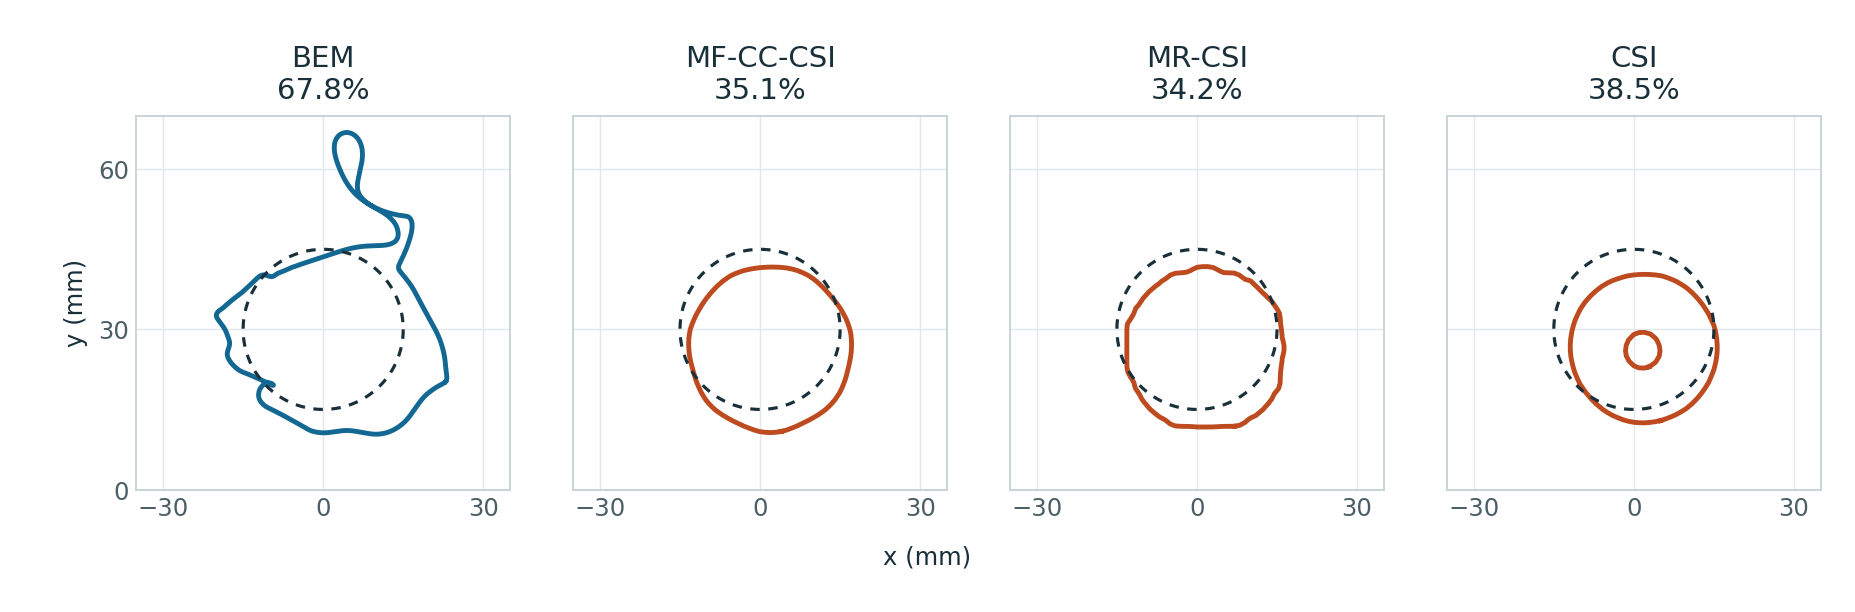
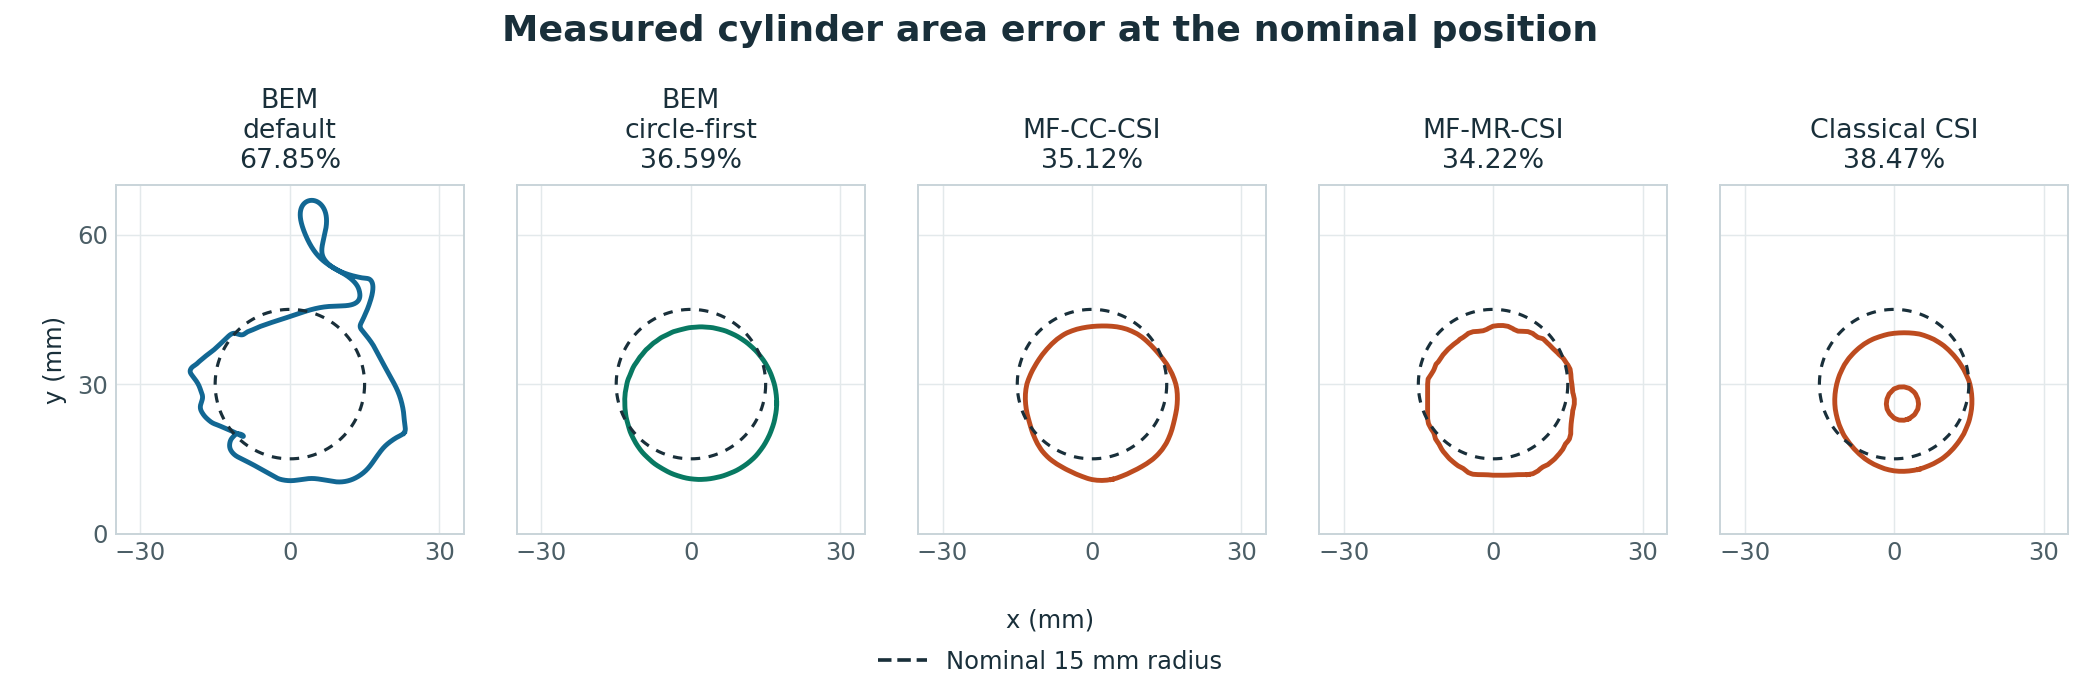
Show overnight BEM and native CSI fits in final comparison figures

diff --git a/docs/iterations/figures/final_comparison/make_figures.py b/docs/iterations/figures/final_comparison/make_figures.py
@@ -22,6 +22,9 @@ OUT = Path(__file__).resolve().parent
 RESULTS = OUT.parents[3] / "results"
 BEM = RESULTS / "bem/baseline_data"
 CSI = RESULTS / "csi"
+SCHEDULES = RESULTS / "bem/stage_scheduling/2026-11-19"
+WARMUP = SCHEDULES / "clean_tg002/warmup"
+TEAL = "#087962"
 BLUE, ORANGE, INK, MUTED = "#126793", "#bd4b1f", "#192f3a", "#4b5e66"
 plt.rcParams.update({"font.family": "DejaVu Sans", "font.size": 10, "text.color": INK,
                      "axes.labelcolor": INK, "xtick.color": MUTED, "ytick.color": MUTED})
@@ -39,48 +42,77 @@ def plot_recovery():
     with (RESULTS / "metrics.csv").open() as stream:
         rows = list(csv.DictReader(stream))
     fits = read(BEM / "brg_tg002/2026-11-18/campaign_summary.json")["fits"]
-    columns = []
-    for family, run in [("bem", "default_clean_uc_fc"), ("gaugal", "default_clean_uc_fs")]:
-        columns.append({r["case"]: float(r["area_error"]) for r in rows
-                        if r["family"] == family and r["run"] == run})
-    for mode in ["known", "recovered"]:
-        columns.append({r["case"]: r["area_error"] for r in fits if r["row"] == mode})
-    for subdir in ["tg002_shapes/2026-11-17", "tg002_no_curvature/2026-11-18"]:
-        columns.append({p.parent.name: read(p)["area_error"]
-                        for p in (RESULTS / "brg" / subdir).glob("*/metrics.json")})
-    fig, ax = plt.subplots(figsize=(11.6, 5.15))
-    fig.subplots_adjust(left=.13, right=.98, top=.97, bottom=.09)
-    ax.set(xlim=(-.65, 11.65), ylim=(11.35, -3.65))
-    ax.axis("off")
-    for left, right, title in [(-.4, 3.4, "Original TG-002"), (3.6, 11.4, "BRG plane-wave data")]:
-        ax.text((left+right)/2, -3.05, title, ha="center", weight="bold", fontsize=14)
-        ax.plot([left, right], [-2.78, -2.78], color="#91a3ac", lw=1)
-    labels = ["BEM", "GauGal", "BEM\ncontrast supplied", "BEM\ncontrast estimated",
-              "BRG\ncurvature limit", "BRG\nno limit"]
-    groups = list(SHAPES)
-    ax.text(-.66, -.85, "Contrast", ha="right", va="center", fontsize=9, color=MUTED)
-    for i, scores in enumerate(columns):
-        ax.text(2*i+.5, -1.94, labels[i], ha="center", va="center", fontsize=10.5)
-        passed = 0
-        for k, contrast in enumerate(["0.5", "4"]):
-            x = 2*i+k
-            ax.text(x, -.85, contrast, ha="center", va="center", fontsize=9, color=MUTED)
-            for y, shape in enumerate(groups):
-                ok = scores[f"{shape}__c{contrast}"] <= .05
-                passed += ok
-                ax.plot(x, y, marker="o" if ok else "x", ms=7 if ok else 6,
-                        color=BLUE if ok else "#8a8f93", mew=1.3)
-        ax.text(2*i+.5, 10.22, f"{passed}/20", ha="center", va="center", weight="bold")
-        if i:
-            ax.plot([2*i-.5]*2, [-.55, 9.55], color="#a2b1b8" if i == 2 else "#e0e6e8")
-    for y, label in enumerate(groups):
-        if y % 2 == 0:
-            ax.axhspan(y-.48, y+.48, color="#f3f6f7", zorder=-1)
-        ax.text(-.66, y, nice_name(label), ha="right", va="center")
-    ax.text(-.66, 10.22, "Recovered", ha="right", va="center", weight="bold")
-    ax.legend(handles=[Line2D([], [], marker=m, linestyle="none", color=c, label=t)
-                       for m, c, t in [("o", BLUE, "Area error ≤ 5%"), ("x", "#8a8f93", "Area error > 5%")]],
-              loc="lower center", bbox_to_anchor=(.5, -.08), ncol=2, frameon=False)
+
+    def campaign_scores(family, run):
+        return {r["case"]: float(r["area_error"]) for r in rows
+                if r["family"] == family and r["run"] == run}
+
+    def warmup_scores(folder):
+        return {p.stem: read(p)["area_error"] for p in folder.glob("*.json")}
+
+    all_contrasts = ("0.5", "4", "13.3")
+    low_contrasts = ("0.5", "4")
+    clean = [
+        ("BEM\ndefault", all_contrasts, campaign_scores("bem", "default_clean_uc_fc")),
+        ("BEM\nwarm-up", all_contrasts, warmup_scores(WARMUP)),
+        ("GauGal", low_contrasts, campaign_scores("gaugal", "default_clean_uc_fs")),
+    ]
+    noisy = [
+        ("BEM\ndefault", all_contrasts, campaign_scores("bem", "default_n1d0_uc_fc")),
+        ("BEM\nwarm-up", all_contrasts, warmup_scores(SCHEDULES / "noisy_tg002/warmup_n1d0")),
+    ]
+    plane_wave = []
+    for mode, label in [("known", "BEM\nsupplied"), ("recovered", "BEM\nestimated")]:
+        plane_wave.append((label, low_contrasts,
+                           {r["case"]: r["area_error"] for r in fits if r["row"] == mode}))
+    for label, subdir in [("BRG\nlimited", "tg002_shapes/2026-11-17"),
+                          ("BRG\nunlimited", "tg002_no_curvature/2026-11-18")]:
+        plane_wave.append((label, low_contrasts,
+                           {p.parent.name: read(p)["area_error"]
+                            for p in (RESULTS / "brg" / subdir).glob("*/metrics.json")}))
+
+    panels = [("Original TG-002 · clean", clean), ("TG-002 · 1% noise, draw 0", noisy),
+              ("BRG plane-wave data · clean", plane_wave)]
+    widths = [sum(len(contrasts) for _, contrasts, _ in group) for _, group in panels]
+    fig, axes = plt.subplots(1, len(panels), figsize=(14.2, 5.5),
+                             gridspec_kw={"width_ratios": widths})
+    fig.subplots_adjust(left=.085, right=.985, bottom=.12, top=.90, wspace=.085)
+    shapes = list(SHAPES)
+    for panel, (ax, (title, group), width) in enumerate(zip(axes, panels, widths)):
+        ax.axis("off")
+        ax.set(xlim=(-.52, width-.48), ylim=(10.95, -2.75))
+        ax.set_title(title, fontweight="bold", pad=9, fontsize=13)
+        ax.axhline(-2.66, color="#91a3ac", lw=1)
+        for y, shape in enumerate(shapes):
+            if y % 2 == 0:
+                ax.axhspan(y-.46, y+.46, color="#f2f5f6", zorder=-1)
+            if panel == 0:
+                ax.text(-.60, y, nice_name(shape), ha="right", va="center", fontsize=11)
+        if panel == 0:
+            ax.text(-.60, -.85, "Contrast", ha="right", va="center", color=MUTED)
+            ax.text(-.60, 10.20, "Recovered", ha="right", va="center", weight="bold")
+
+        start = 0
+        for label, contrasts, scores in group:
+            centre = start + (len(contrasts) - 1) / 2
+            ax.text(centre, -1.95, label, ha="center", va="center", fontsize=11)
+            passed = 0
+            for x, contrast in enumerate(contrasts, start=start):
+                ax.text(x, -.85, contrast, ha="center", va="center", color=MUTED)
+                for y, shape in enumerate(shapes):
+                    ok = scores[f"{shape}__c{contrast}"] <= .05
+                    passed += ok
+                    ax.plot(x, y, marker="o" if ok else "x", ms=6.3 if ok else 5.3,
+                            color=BLUE if ok else "#889399", mew=1.2)
+            ax.text(centre, 10.20, f"{passed}/{len(contrasts)*len(shapes)}",
+                    ha="center", va="center", weight="bold", fontsize=11)
+            if start:
+                ax.vlines(start-.5, -2.45, 9.5, color="#d8e0e3", lw=.8)
+            start += len(contrasts)
+
+    fig.legend(handles=[Line2D([], [], marker=m, linestyle="none", color=c, label=t)
+                        for m, c, t in [("o", BLUE, "Area error ≤ 5%"), ("x", "#889399", "Area error > 5%")]],
+               loc="lower center", bbox_to_anchor=(.5, .01), ncol=2, frameon=False)
     fig.savefig(OUT / "tg002_recovery.png", dpi=165)
     plt.close(fig)
 
@@ -113,25 +145,29 @@ def plot_clean_bem():
         truth_path = campaign.ROOT / campaign.row(case)["truth"]
         samples = score["protocol"]["curve_samples"]
         truth = LENGTH * curve_from(read(truth_path)).values(samples)
-        boundary = LENGTH * curve_from(fit["final_curve"]).values(samples)
-        endpoints[case] = truth, boundary, score["area_error"]
+        default = LENGTH * curve_from(fit["final_curve"]).values(samples)
+        warmup = read(WARMUP / f"{case}.json")
+        last_stage = warmup["stages"][-1]
+        assert np.isclose(last_stage["area_error"], warmup["area_error"], rtol=0, atol=1e-12), case
+        warmed = LENGTH * curve_from(last_stage["curve"]).values(samples)
+        endpoints[case] = (truth, default, warmed), (score["area_error"], warmup["area_error"])
 
     # Use one physical frame in every panel, including oversized failed fits.
-    outlines = np.concatenate([line for truth, boundary, _ in endpoints.values()
-                               for line in (truth, boundary)]) * 1000
+    outlines = np.concatenate([line for curves, _ in endpoints.values() for line in curves]) * 1000
     x = (outlines.real.min() + outlines.real.max()) / 2
     y = (outlines.imag.min() + outlines.imag.max()) / 2
     half_span = max(np.ptp(outlines.real), np.ptp(outlines.imag)) * .53
     fig = plt.figure(figsize=(11, 12))
-    blocks = fig.add_gridspec(2, 1, left=.07, right=.985, top=.933, bottom=.035, hspace=.23)
+    blocks = fig.add_gridspec(2, 1, left=.07, right=.985, top=.887, bottom=.035, hspace=.17)
     grids = [block.subgridspec(3, 5, hspace=.22, wspace=.07) for block in blocks]
     for i, shape in enumerate(SHAPES):
         block, col = divmod(i, 5)
         for j, contrast in enumerate(contrasts):
             ax = fig.add_subplot(grids[block][j, col])
-            truth, boundary, error = endpoints[f"{shape}__c{contrast}"]
-            draw(ax, boundary, BLUE, lw=2)
-            draw(ax, truth, INK, lw=1.1, ls=(0, (2.3, 2.8)))
+            (truth, default, warmed), errors = endpoints[f"{shape}__c{contrast}"]
+            draw(ax, warmed, TEAL, lw=3.1)
+            draw(ax, default, BLUE, lw=1.6, ls="--")
+            draw(ax, truth, INK, lw=1.1, ls=":")
             ax.set(aspect="equal", xlim=(x-half_span, x+half_span), ylim=(y-half_span, y+half_span))
             ax.set_facecolor("#f7f9fa")
             ax.set_xticks([])
@@ -142,14 +178,18 @@ def plot_clean_bem():
                 ax.set_title(nice_name(shape), fontsize=12, weight="bold", pad=7)
             if col == 0:
                 ax.set_ylabel(f"Contrast {contrast}", fontsize=11, labelpad=8)
-            passed = error <= .05
-            display = "<0.01%" if error < .0001 else f"{error:.2%}"
-            ax.text(.5, -.035, f"{'Pass' if passed else 'Miss'}   {display}",
-                    ha="center", va="top", fontsize=10, color=BLUE if passed else ORANGE,
+            gained = errors[0] > .05 >= errors[1]
+            labels = ["<0.01%" if error < .0001 else f"{error:.2%}" for error in errors]
+            ax.text(.5, -.035, " → ".join(labels), ha="center", va="top", fontsize=9.5,
+                    weight="bold" if gained else "normal", color=TEAL if gained else INK,
                     transform=ax.transAxes)
-    fig.legend(handles=[Line2D([], [], color=BLUE, lw=2, label="BEM fit"),
-                        Line2D([], [], color=INK, ls="--", label="True boundary")],
-               loc="upper center", ncol=2, frameon=False, fontsize=11)
+    fig.suptitle("Clean TG-002 area error by shape and contrast", y=.988, weight="bold", fontsize=15)
+    fig.legend(handles=[Line2D([], [], color=BLUE, lw=1.8, ls="--", label="Default"),
+                        Line2D([], [], color=TEAL, lw=3.1, label="0.25 GHz warm-up"),
+                        Line2D([], [], color=INK, ls=":", label="True boundary")],
+               loc="upper center", bbox_to_anchor=(.5,.965), ncol=3, frameon=False, fontsize=11)
+    fig.text(.5, .928, "Area errors read from default to warm-up. Bold pairs mark new recoveries.",
+             ha="center", color=MUTED, fontsize=10)
     fig.savefig(OUT / "default_clean_uc_fc.png", dpi=180)
     plt.close(fig)
 
@@ -199,15 +239,21 @@ def plot_measured():
     truth = Point(x,y).buffer(geometry["radius_mm"]/1000, quad_segs=4096)
     tx, ty = truth.exterior.xy
     reference = np.asarray(tx) + 1j*np.asarray(ty)
-    curve, error = bem_outline(BEM / "csi_adapter/2026-11-18/first_fit/dielTM_dec8f/cuda/attempt_01")
-    methods = [("BEM", [curve], error, BLUE)]
+    methods = []
+    for name, folder, color in [
+        ("BEM\ndefault", "csi_adapter/2026-11-18/first_fit", BLUE),
+        ("BEM\ncircle-first", "measured_schedule/2026-11-19/circle_ladder", TEAL),
+    ]:
+        curve, error = bem_outline(BEM / folder / "dielTM_dec8f/cuda/attempt_01")
+        methods.append((name, [curve], error, color))
     data = loadmat(RESULTS.parent / registered["source"], simplify_cells=True)
     for i, row in enumerate(registered["methods"], 1):
         error = row["scores"][0]["area_error"]
         rings = csi_outlines(data, data[f"chi{i}"][-1], truth, error)
-        methods.append((row["method"].removeprefix("MF-") if i == 2 else row["method"], rings, error, ORANGE))
-    fig, axes = plt.subplots(1, 4, figsize=(10.6, 3.5), sharey=True)
-    fig.subplots_adjust(left=.07, right=.985, bottom=.20, top=.81, wspace=.13)
+        methods.append((row["method"] if row["method"] != "CSI" else "Classical CSI", rings, error, ORANGE))
+    fig, axes = plt.subplots(1, len(methods), figsize=(12, 3.95), sharey=True)
+    fig.subplots_adjust(left=.055, right=.985, bottom=.21, top=.75, wspace=.15)
+    fig.suptitle("Measured cylinder area error at the nominal position", weight="bold", fontsize=15)
     for ax, (name, rings, error, color) in zip(axes, methods):
         for ring in rings:
             points = ring*1000
@@ -216,13 +262,15 @@ def plot_measured():
             draw(ax, ring, color, lw=2)
         draw(ax, reference, INK, lw=1.3, ls=(0,(3,2.7)))
         ax.set(aspect="equal", xlim=(-35,35), ylim=(0,70), xticks=[-30,0,30], yticks=[0,30,60])
-        ax.set_title(f"{name}\n{error:.1%}", fontsize=12, pad=7)
+        ax.set_title(f"{name}\n{error:.2%}", fontsize=11, pad=7)
         ax.grid(color="#e3e9eb", lw=.6)
         ax.tick_params(length=0, pad=3)
         for spine in ax.spines.values():
             spine.set_color("#c9d4d9")
     axes[0].set_ylabel("y (mm)")
-    fig.supxlabel("x (mm)", y=.07, fontsize=10)
+    fig.supxlabel("x (mm)", y=.085, fontsize=10)
+    fig.legend(handles=[Line2D([], [], color=INK, ls="--", label="Nominal 15 mm radius")],
+               loc="lower center", bbox_to_anchor=(.5, -.007), frameon=False)
     fig.savefig(OUT / "measured_cylinder.png", dpi=175)
     plt.close(fig)
 

diff --git a/docs/iterations/final_comparison_report.md b/docs/iterations/final_comparison_report.md
@@ -12,9 +12,9 @@ Area error is the missing area plus the extra area, as a percentage of true area
 | C. Seven simulated shapes at contrast 4, same five frequencies from 0.5 to 2.5 GHz | 2.96% mean area error, 6/7 recovered | MF-CC-CSI had 13.08% mean error, 1/7 recovered. BEM had lower error on every shape at all three image thresholds tested. [Per-shape scores](coordinate_final_comparison.md#table-c-simulated-shapes-the-numbers-18-november-0750-utc) |
 | C. One measured Fresnel cylinder, 1–8 GHz | 67.85% area error with the default schedule, 36.59% with circle fitting across frequencies | MF-CC-CSI 35.12%, MF-MR-CSI 34.22%, classical CSI 38.47%. All scores use the nominal cylinder position. [Measured comparison](adapt_bem_to_baseline_data/11_test_measured_cylinder_schedule/results.md) |
 
-![Recovery by shape and contrast for BEM, GauGal and both BRG settings. Only BEM with estimated contrast recovered every case on the plane-wave data.](figures/final_comparison/tg002_recovery.png)
+![Per-case recovery on clean TG-002, one noisy TG-002 draw and clean BRG plane-wave data. A 0.25 GHz BEM warm-up adds four recoveries on each TG-002 data set.](figures/final_comparison/tg002_recovery.png)
 
-*Figure 1. Each pair of columns shows the same ten shapes at contrasts 0.5 and 4. A dot marks a recovery within 5% area error.*
+*Figure 1. Each dot marks a recovery within 5% area error. BEM rises from 16/30 to 20/30 on both clean TG-002 and the frozen 1% noise draw. The GauGal and plane-wave comparisons shown here cover contrasts 0.5 and 4 (20 cases). On plane-wave data, BEM either receives or estimates the contrast, and BRG runs with or without its curvature limit.*
 
 ## Classical CSI and BEM on the same 24 readings
 
@@ -27,15 +27,19 @@ At 0.5 GHz and contrast 4, BEM had the lower area error on the circle and classi
 
 The noisy columns use the same frozen draw. BEM received the noise level for stopping. CSI ran 2,048 iterations and its area was scored at half the image peak. [Settings and scores](compare_sparse_baselines/01_test_single_frequency_csi/results.md#noisy-comparisons-1-noise-draw-0)
 
+![Circle and kite at 0.5 GHz, clean and with 1% noise. The BEM kite extends beyond the target and the classical CSI half-peak region covers about half of it.](compare_sparse_baselines/01_test_single_frequency_csi/figures/csi_and_bem_native_0p5ghz.png)
+
+*Figure 2. The colour map shows CSI susceptibility, the gold line encloses the region at half peak, and the orange line is the BEM outline. White dashes mark the true boundary. Both methods used the same 24 readings in each panel.*
+
 ## All 30 clean BEM fits
 
 `default_clean_uc_fc` recovered **16/30** by the 5% area rule. At contrast **0.5**, only the cog missed (**9/10**). At **4**, the kite, C-shape and Aphex Twin missed (**7/10**). At **13.3**, all ten missed (**0/10**). [Saved run](../../results/bem/default_clean_uc_fc/run.json)
 
 The real 0.25 GHz warm-up kept all 16 passes and recovered four more, giving **10/10, 9/10 and 1/10** at contrasts 0.5, 4 and 13.3. Longer step or time limits recovered zero additional cases in the matched tests. Widening the early shape bands gave 19/30, and the best measured-cylinder schedule recovered 6/30 on clean TG-002. [Schedule comparison](investigate_bem_stage_scheduling/03_compare_schedule_effects/results.md)
 
-![All 30 clean BEM fits against their true outlines. The gallery labels each fit with its area error and pass or miss.](figures/final_comparison/default_clean_uc_fc.png)
+![Paired default and warm-up outlines for all 30 clean cases. Bold score pairs identify the four cases recovered by adding the warm-up.](figures/final_comparison/default_clean_uc_fc.png)
 
-*Figure 2. Solid blue shows the final fit and dashed black shows the true boundary. Every panel uses the same position and scale. The percentage is the area error.*
+*Figure 3. Each panel shows default and warm-up area errors in that order, on a common physical scale. The four new recoveries are cog at 0.5, kite and Aphex Twin at 4, and circle at 13.3.*
 
 **Video.** Four contrast-4 fits stopped early. The kite and Aphex Twin grew large lobes outside the target. The C-shape also included extra area even though its final contrast was 3.91, close to 4. Cog passed at 2.00% area error before the time limit. The video shades extra area orange and missing area purple. [Watch the four fits (MP4)](figures/final_comparison/contrast_4_fit_history.mp4)
 
@@ -87,12 +91,12 @@ With 1% noise, the 17 November BEM run still recovered 0/10 at contrast 13.3. At
 
 ![Seven simulated outlines with BEM, MF-CC-CSI and the true boundary overlaid. CSI misses parts of the cross, C-shape and hook.](figures/final_comparison/simulated_boundaries.png)
 
-*Figure 3. Area errors under each shape name are BEM first, then MF-CC-CSI. The dashed line is the true boundary. All panels use the same scale.*
+*Figure 4. Area errors under each shape name are BEM first, then MF-CC-CSI. The dashed line is the true boundary. All panels use the same scale.*
 
 **On measured data, the default BEM outline pinched until every proposed move crossed it.** Fitting the circle as frequencies were added, then allowing shape changes using all eight frequencies, gave a radius of **15.28 mm** and relative permittivity **3.05**. The nominal values are 15 mm and 3 ± 0.3. Area error was **36.59%** at the nominal position and **3.72%** when the reference disk was placed at the centre estimated from the data. The CSI scores use the nominal position. [Cylinder comparison](adapt_bem_to_baseline_data/11_test_measured_cylinder_schedule/results.md) · [Reference geometry](csi_adaptation/03_prepare_simulated_tg002_cases/frame.md)
 
-![Four measured cylinder reconstructions. The BEM boundary extends well above the nominal circle. The three CSI fits lie closer to the circle.](figures/final_comparison/measured_cylinder.png)
+![Five measured-cylinder reconstructions against the same nominal disk. BEM area error falls from 67.85% to 36.59% with circle fitting across frequencies. CSI errors range from 34.22% to 38.47%.](figures/final_comparison/measured_cylinder.png)
 
-*Figure 4. The 18 November comparison shows the default BEM fit and the three CSI fits. The dashed circle is the nominal cylinder at its reported position. Each percentage is the area error.*
+*Figure 5. Each solid outline is scored against the same dashed nominal circle. The 3.72% BEM score quoted above uses a reference disk moved to the centre estimated from the data.*
 
 **Timing depends on hardware and load.** On the seven shared simulations, BEM took 47–247 seconds per fit on a GPU. MF-CC-CSI took 3,655–5,051 seconds on CPU threads, often with several fits running at once. These times describe this setup. [Run conditions](csi_adaptation/07_run_seven_cases_at_five_frequencies/results.md)
